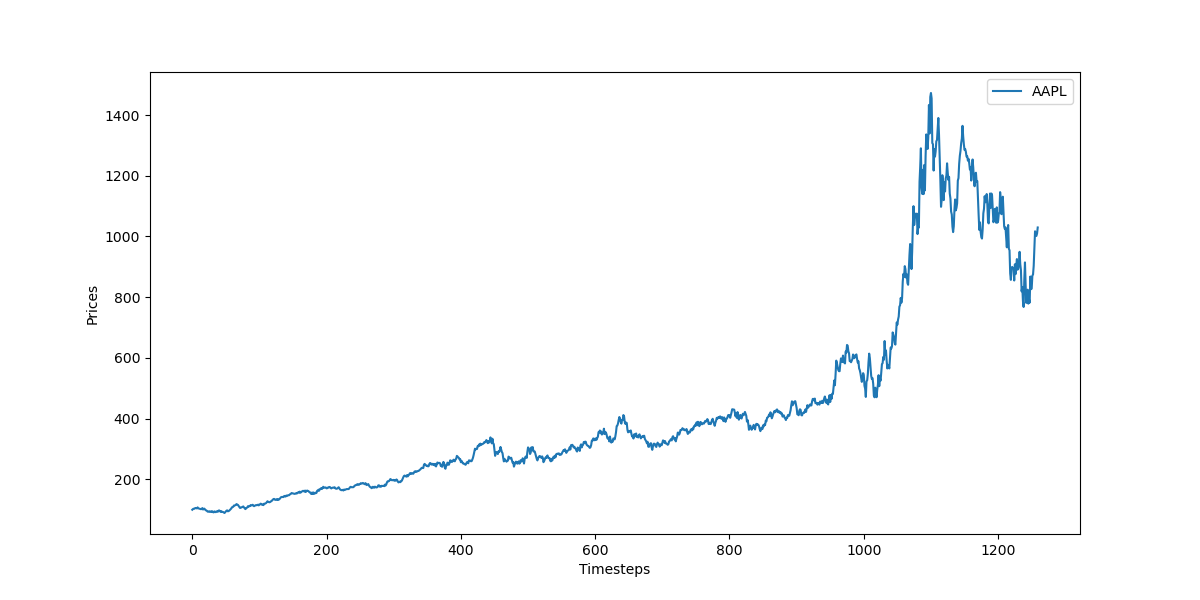
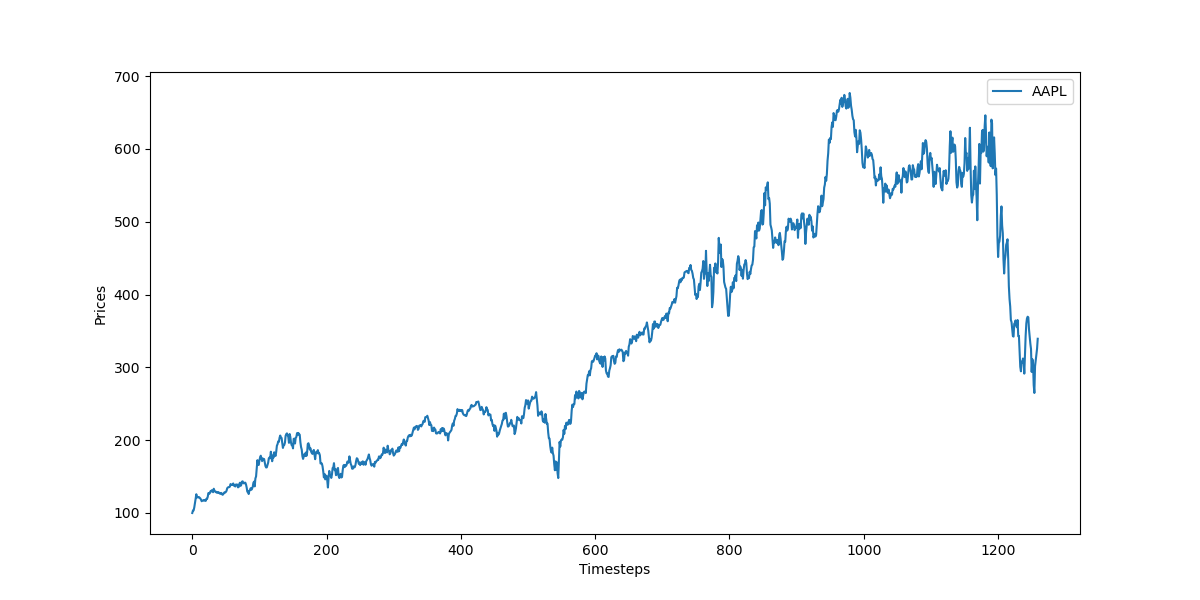
Batch for DCC done

diff --git a/data_generation_processes/DCC_GARCH_BATCH.py b/data_generation_processes/DCC_GARCH_BATCH.py
@@ -102,6 +102,26 @@ class DCC_GARCH():
         
         return self.D
     
+    def D_t_batch(self, params, batch_size, t=0, train=False):
+        """
+            h_{n,t} = alpha0_{n} + alpha_{n} a_{n, t-1}^2 + beta_{n} h_{n, t-1}
+        """
+        alpha0 = np.expand_dims(params[0:self.N],axis=1)
+        alpha = np.expand_dims(params[self.N:2*self.N],axis=1)
+        beta = np.expand_dims(params[2*self.N:3*self.N], axis=1)
+        if self.type == "gjr":
+            gamma = np.expand_dims(params[3*self.N:4*self.N], axis=1)
+            I = np.where(self.a_return > 0, 0.0, 1.0)
+            alpha = alpha + gamma*I
+
+        h_vector = np.expand_dims(np.diagonal(self.D, axis1=-2, axis2=-1)**2, axis=2)
+        new_h_vector = alpha0 + alpha * self.a_return**2 + beta * h_vector
+        new_h_vector = np.reshape(new_h_vector, (batch_size, self.N))
+        mydiag=np.vectorize(np.diag, signature='(n)->(n,n)')
+        self.D = mydiag(np.sqrt(new_h_vector))
+        
+        return self.D
+    
     def R_t(self, params, t=0, train=False):
         """
             e_t = D_t^{-1} a_t \\sim N(0, R_t)
@@ -116,8 +136,23 @@ class DCC_GARCH():
         self.R = Q_diag_inv@self.Q@Q_diag_inv
 
         return self.R
+    
+    def R_t_batch(self, params, batch_size, t=0, train=False):
+        """
+            e_t = D_t^{-1} a_t \\sim N(0, R_t)
+            R_t = Q_t^{*-1} Q_t Q_t^{*-1}
+            Q_t = (1 - a - b) Q_bar + a e_{t-1} e_{t-1}^T + b Q_{t-1}
+        """
+        a = params[-2]
+        b = params[-1]
 
-    def r_t(self, t=0, train=False):
+        self.Q = (1 - a - b) * self.Q_bar + a * self.e@np.transpose(self.e, axes=(0,2,1)) + b * self.Q
+        mydiag=np.vectorize(np.diag, signature='(n)->(n,n)')
+        Q_diag_inv = np.linalg.inv(mydiag(np.sqrt(np.diagonal(self.Q, axis1=-2, axis2=-1))))
+        self.R = Q_diag_inv@self.Q@Q_diag_inv
+        return self.R
+
+    def r_t(self, batch_size, t=0, train=False):
         """
         r_t = mu + a_t
         a_t = H_factor * z_t
@@ -125,9 +160,10 @@ class DCC_GARCH():
         """
         self.H = self.D@self.R@self.D
         self.H_factor = np.linalg.cholesky(self.H)
-        self.a_return = self.H_factor@np.random.randn(self.N, 1)
+        self.a_return = self.H_factor@np.random.randn(batch_size, self.N, 1)
         self.r = self.mu + self.a_return
         self.e = np.linalg.inv(self.D)@self.a_return
+
         return self.r
     
     def garch_neg_log_likelihood(self, params):
@@ -221,22 +257,23 @@ class DCC_GARCH():
 
         return self.params
     
-    def generate(self, S_0, num_points, load_params=False):
+    def generate(self, S_0, batch_size, num_points, load_params=False):
         """Loop used to generate paths using the estimated parameters"""
         if load_params:
             with open('dcc_garch_parameters.pickle', 'rb') as parameter_file:
                 self.params = pickle.load(parameter_file)
         
-        prices = np.ones((self.N, num_points)) * S_0                                # (N, num_points) Paths of length num_points of the N assets
-        self.D = np.diag(np.std(self.a_data, axis=1))
-        self.R = np.corrcoef(self.a_data)
-        self.Q = self.Q_bar
+        prices = np.ones((batch_size, self.N, num_points)) * S_0                                # (N, num_points) Paths of length num_points of the N assets
+        self.D = np.tile(np.diag(np.std(self.a_data, axis=1)),(batch_size,1,1))
+        self.R = np.tile(np.corrcoef(self.a_data),(batch_size,1,1))
+        self.Q = np.tile(self.Q_bar,(batch_size,1,1))
 
         for t in range(num_points):
-            r_t = self.r_t()
-            prices[:, t+1:t+2] = prices[:, t:t+1]*np.exp(r_t)
-            self.D_t(params=self.params)
-            self.R_t(params=self.params)
+            print("timestep: ", t)
+            r_t = self.r_t(batch_size)
+            prices[:, :, t+1:t+2] = prices[:, :, t:t+1]*np.exp(r_t)
+            self.D_t_batch(params=self.params, batch_size=batch_size)
+            self.R_t_batch(params=self.params, batch_size=batch_size)
         return prices
 
 """
@@ -268,9 +305,11 @@ dcc_garch_model = DCC_GARCH(stocks=stocks, type=garch_type)
 # plt.savefig("dcc_nll_losses.png")
 # plt.close()
 
+num_points=252*5
+
 plt.figure(figsize=(12,6))
-x = dcc_garch_model.generate(S_0=100, num_points=252*5, load_params=True)
-plt.plot(x.T)
+x = dcc_garch_model.generate(S_0=100, batch_size=2**20, num_points=252*5, load_params=True)
+plt.plot(x[0].T)
 plt.xlabel("Timesteps")
 plt.ylabel("Prices")
 plt.legend(list(stocks.split(" ")))

diff --git a/data_generation_processes/GARCH.py b/data_generation_processes/GARCH.py
@@ -118,21 +118,19 @@ class GARCH():
         
         prices = np.ones((batch_size, num_points)) * S_0
         self.h = np.tile(np.var(self.a_data),(batch_size,1))
-        print("self.h.shape: ", self.h.shape)
+        
         for t in range(num_points):
-            print("t: ", t)
+            print("timestep: ", t)
             self.a_return = np.sqrt(self.h) * np.random.randn(batch_size,1)
-            print("self.a_return.shape: ", self.a_return.shape)
             r_t = self.mu + self.a_return
-            print("r_t.shape: ", r_t.shape)
             prices[:, t+1:t+2] = prices[:, t:t+1]*np.exp(r_t)
             self.h_t(params=self.params)
         
         return prices
 
-# stock = "AAPL"
+stock = "AAPL"
 
-# model = GARCH(stock=stock, type="gjr")
+model = GARCH(stock=stock, type="gjr")
 
 # # Training
 # params = model.train(save_params=True)
@@ -147,11 +145,23 @@ class GARCH():
 
 # # Generating
 # x = model.generate(S_0=100, batch_size=1, num_points=252*5, load_params=True)
-# print(model.params)
+# print("model_parameters: ", model.params)
 # plt.figure(figsize=(12,6))
-# plt.plot(x.T)
+# plt.plot(x[0].T)
 # plt.xlabel("Timesteps")
 # plt.ylabel("Prices")
 # plt.legend([stock])
 # plt.savefig("garch_test.png")
 # plt.close()
+
+# h = np.eye(3)*2
+# h_tiled = np.tile(h,(2,1,1))
+
+# h_diag = np.diagonal(h_tiled,axis1=-2, axis2=-1)
+# h_vec = np.diagonal(h_tiled,axis1=-2, axis2=-1)
+# print("h_vec: ", h_vec.shape)
+# mydiag=np.vectorize(np.diag, signature='(n)->(n,n)')
+# h_eye = mydiag(h_vec)
+# print("h_eye: ", h_eye.shape)
+# h_inv = np.linalg.inv(h_eye)
+# print(h_eye@h_inv)
